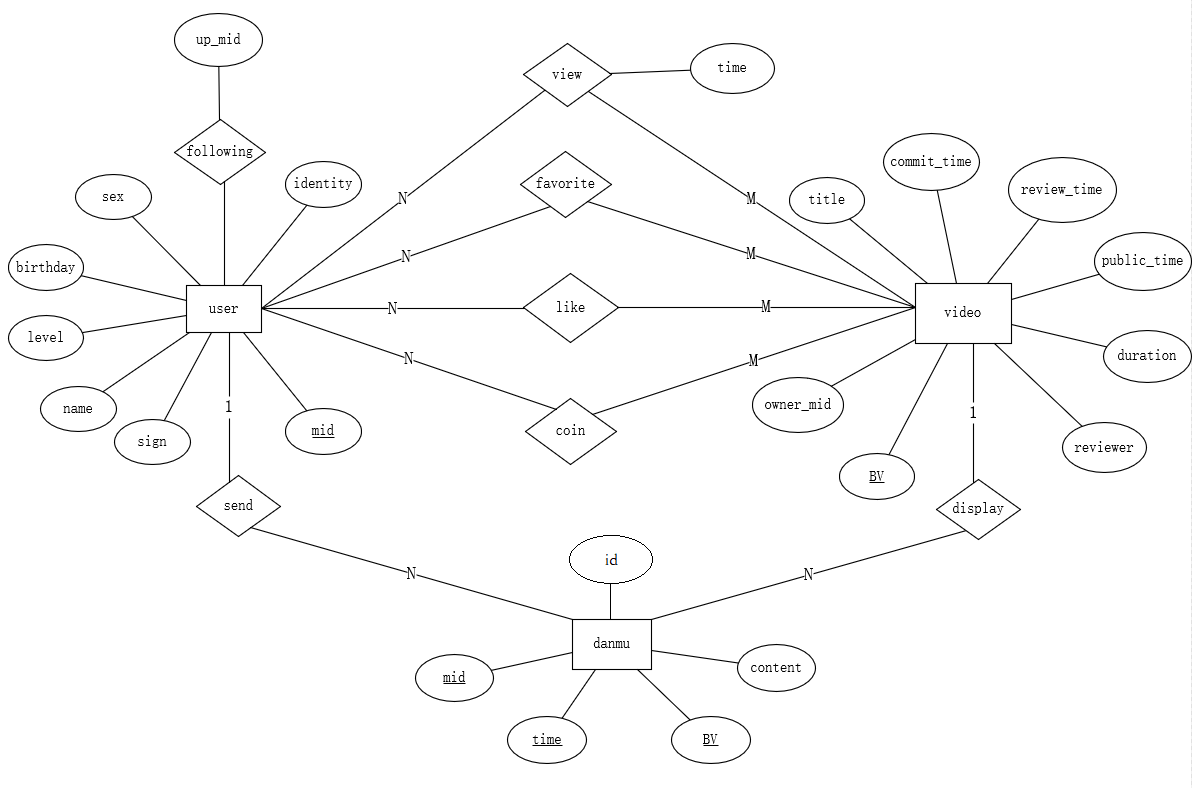
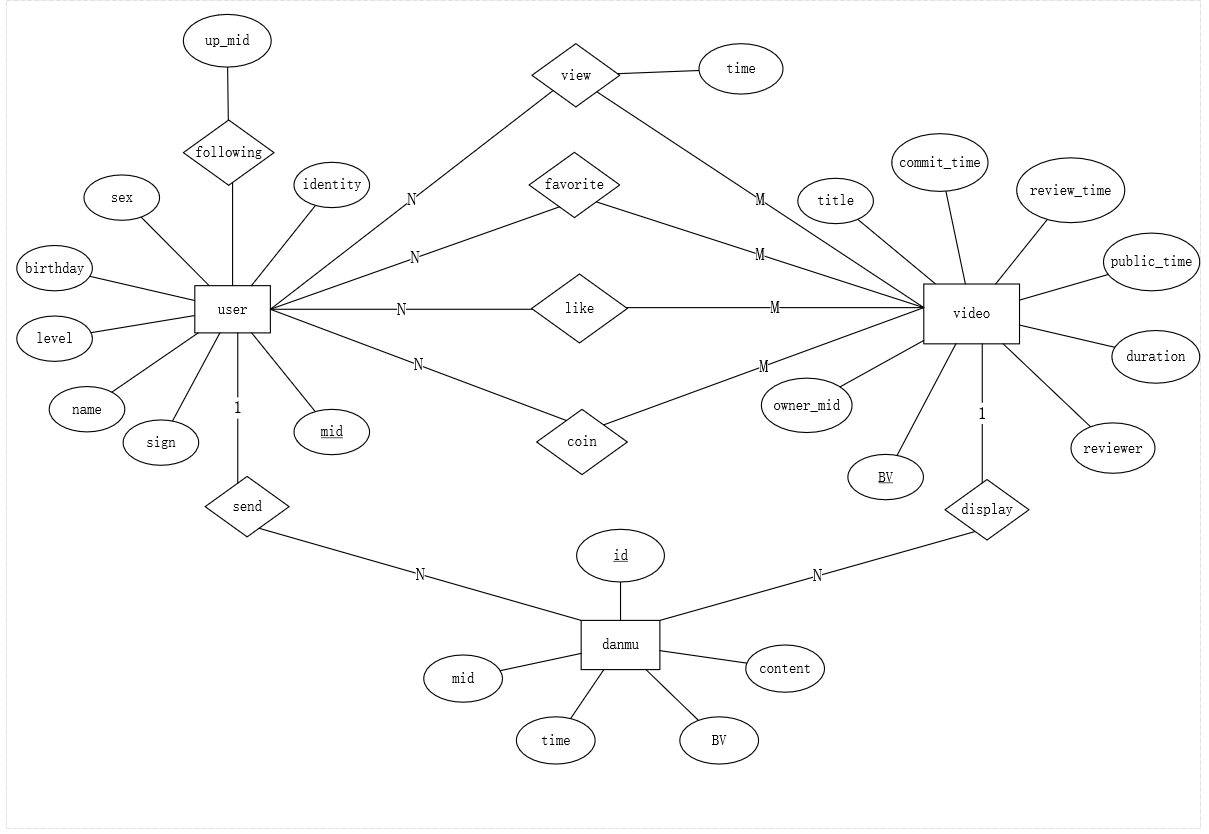
modify sql code and two diagrams, finish the task2 report

diff --git a/Report.md b/Report.md
@@ -38,11 +38,82 @@ We use [Visio](https://visio.iruanhui.cn/?bd_vid=9042954634973670880) to draw th
 </p>
 
 ### 2. Table Design Description
-**toDo**: Finish the report mainly focus on 
-(1) What tables have been designed and the reasons 
-for this design (the reasons can be shorter) 
-(2) What is the relationship between these tables 
-(3) Why does this design conform to 3NF
+By analyzing the initial data, we gained some key information:  
+* "following" in user.csv usually has multiple mids of up.
+* "like", "coin", "favorite" and "view" in videos.csv usually has mutiple mids.
+* In the same video, the same person can send identical danmu at the same time.  
+
+This information results in tables that do not satisfy the three normal forms.
+In order to make the database design meet the three normal forms and be as easy to expand as possible, 
+we designed the following tables. 
+
+**project_user**  
+* `mid`: the uid of the user.
+* `name`: the name of the user.
+* `sex`: the sex of the user.
+* `birthday`: the birthday of the user.
+* `level`: the level of the user.
+* `sign`: the personal description.
+* `identity`: "user" or "superuser".
+  
+**project_following**
+* `up_mid`: the mid of up followed by fans.
+* `fans_mid`: the mid of the user following the up.
+  
+**project_video**
+* `BV`: the unique identification string of a video.
+* `title`: the name of the video.
+* `owner_mid`: the mid of the video owner.
+* `commit_time`: the time when the owner committed this video.
+* `review_time`: the time when the video was inspected by its reviewer
+* `public_time`: the time when the video was made public for all users.
+* `duration`: the video duration.
+* `description`: the brief text introduction given by the uploader.
+* `reviewr`: the mid of the video reviewer.
+
+**project_like**
+* `BV`: the video BV of the video liked.
+* `mid`: the mid of the user who liked the video.
+  
+**project_coin**
+* `BV`: the video BV of the video given the coins.
+* `mid`: the mid of the user who gave the coins to the video. 
+
+**project_favorite**
+* `BV`: the video BV of the video favorited.
+* `mid`: the mid of the user who favorited the video.
+
+**project_view**
+* `BV`: the video BV of the video watched.
+* `mid`: the mid of the user who watched the video.
+* `time`: last watch time duration of the user.
+
+**project_danmu**
+* `id`: the tag of danmu. (Increment primary key)
+* `BV`: the video BV of the video that the Danmu was sent.
+* `mid`: the mid of the user who sent the Danmu.
+* `time`: the time of the video that Danmu appears.
+* `content`: the content of the Danmu.  
+  
+Our design satisfies the need of following:
+* Follow the requirements of the three normal forms.
+  * Each property cannot contain multiple values or duplicate values.
+  * Every non-key attribute (column) is fully functionally dependent on the entire primary key.
+  * Each non-primary key property does not depend on other non-primary key properties.
+
+* Each table has its primary key.
+* Every table is included in a link. No isolated tables included.
+* Contain no circular links.
+* Each table has its own NOTNULL column and UNIQUE column.
+* Use appropriate types for different fields of data.
+
+### 3. Scalability
+The tables we've designed exhibit strong scalability:  
+* "project_following" can store all following ups' mid of users. 
+It's also very easy to add or delete new following. 
+Meanwhile, It can easily retrieve the list of users following this user.
+* "project_like", "project_coin" and "project_favorite" also have the scalability like "project_following".
+* "project_view" uses the composite primary key, which can make update the time easier.
 
 ## Task 3: Data Import
 
